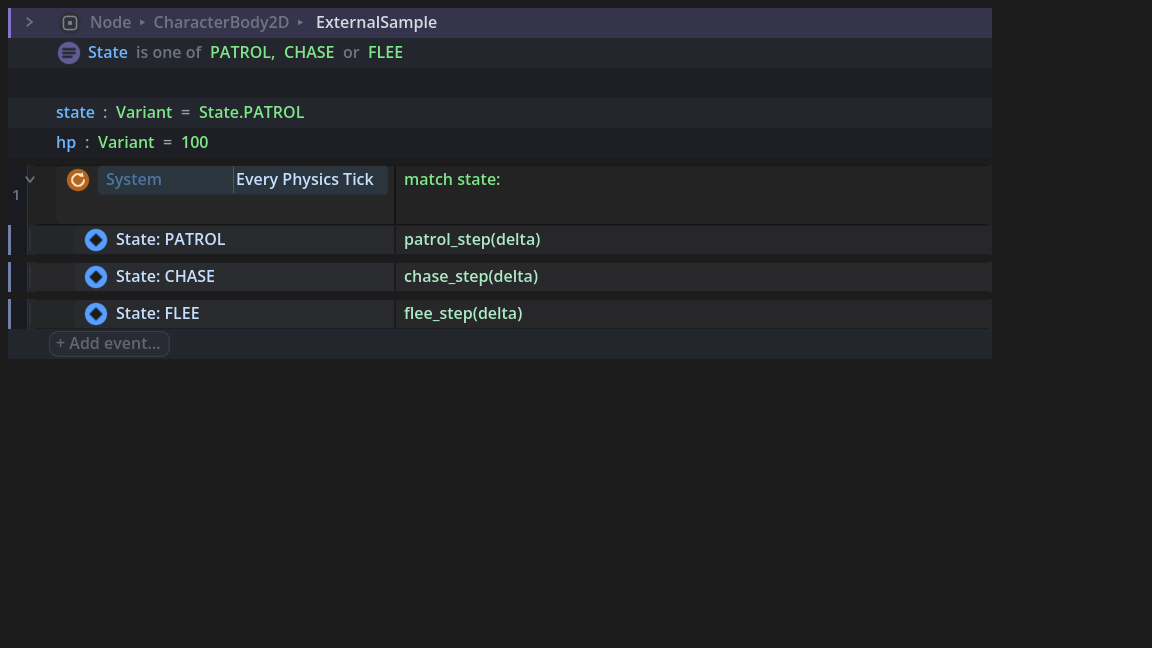
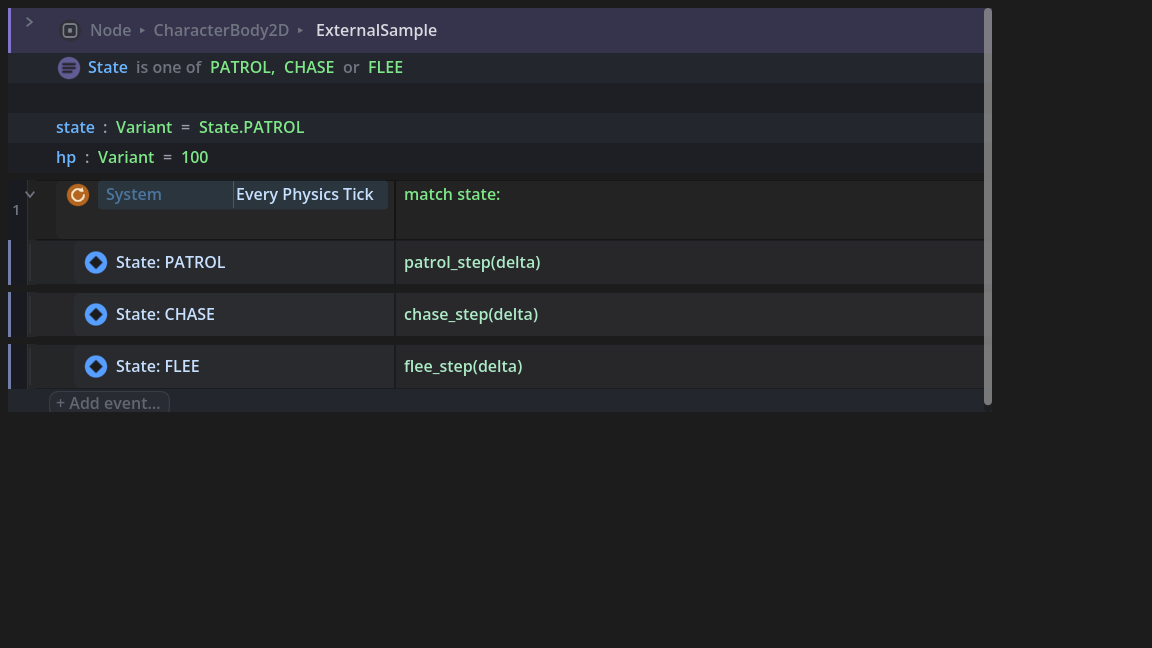
feat(editor): identity rows read as bars - 1.5x height for state headers, Class setup, Host binding
EventRowData.height_scale (metrics multiply, layout re-centers content in
the taller rect); applied to state-header rows (lifted cases + authored
Is In State events), the Class setup strip, and Host binding - which also
gains the accent band and trades its word pill for the host class's
editor icon. Host binding l10n key ships in all locales; pins updated.

diff --git a/CHANGELOG.md b/CHANGELOG.md
@@ -14,6 +14,14 @@ non-Node host compiles with a warning instead of broken code. The generated trio
 name-addressed: reopening the emitted `.gd` as a sheet lifts it into ordinary rows, and saving
 again emits no second copy - the reopen cycle stays byte-identical.
 
+### Added - identity rows read as BARS: state headers, Class setup, Host binding
+
+The rows that say what something IS (a state header, the sheet's inheritance, a behavior's
+host) now reserve 1.5x height with their content centered, and Class setup + Host binding wear
+the accent band with a left accent edge - the Construct Includes-bar presence. A state header,
+a Host binding, or the Class setup bar can never be mistaken for a variable row again, and the
+Host binding word pill is replaced by the host class's own editor icon.
+
 ### Added - the enum block and Class setup read at rest, open into lists
 
 Both prelude blocks now share one rhythm - a single readable line closed, a list open, one fold
